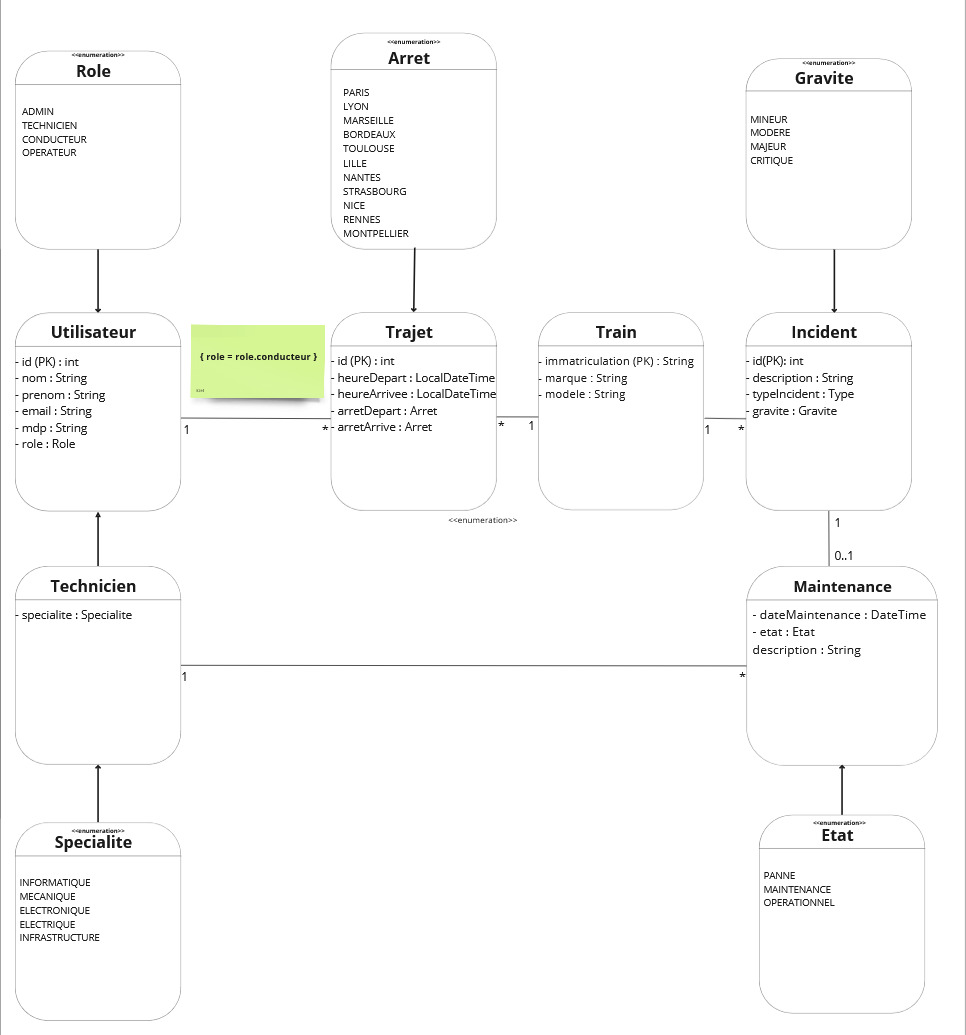
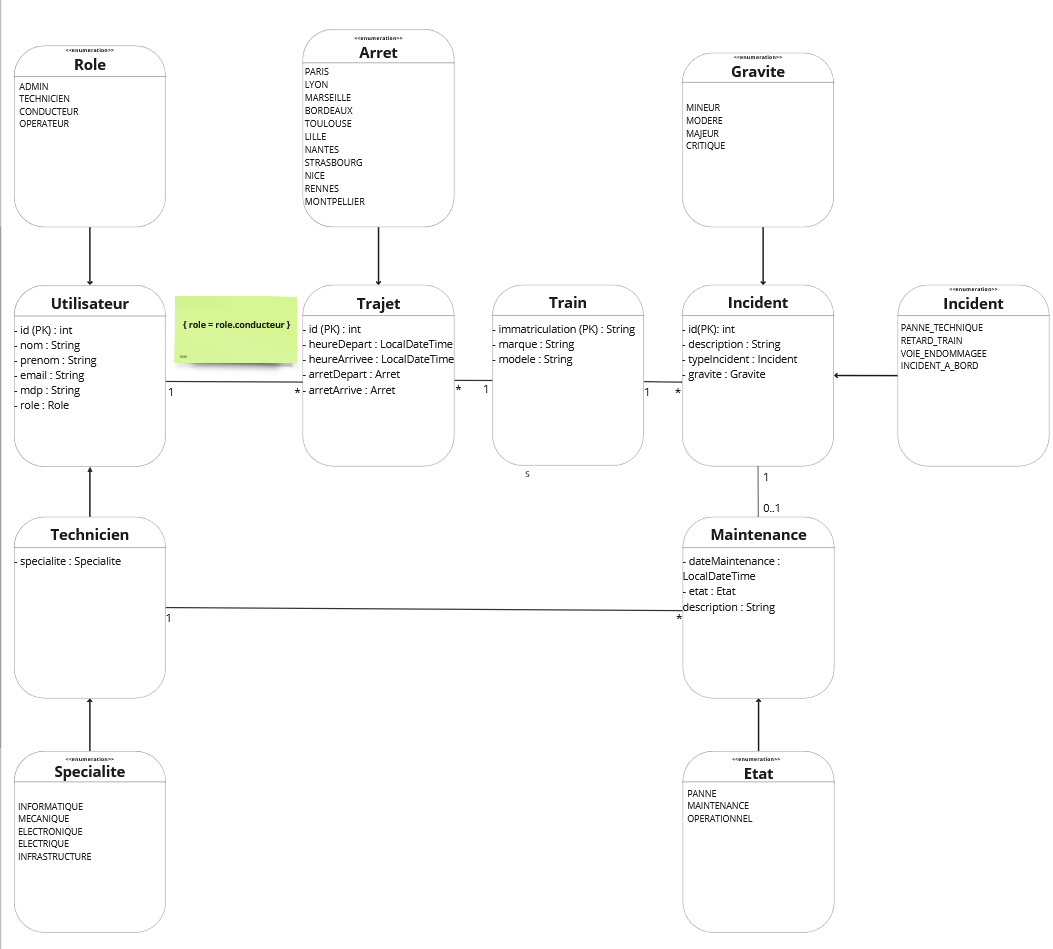
v2 modèle relationnel (ajout enum typeIncident) + modification diagramme_de_classes

diff --git a/modèle relationnel.md b/modèle relationnel.md
@@ -3,7 +3,7 @@
 
 # RailTech-Solutions
 </div>
-Itzel CASTILLO FOURNEL, Malika AMRANI, Dylan OG, ESIEE-IT (BTS - SIO), 10/12/2024
+Itzel CASTILLO FOURNEL, Malika AMRANI, Dylan OG, ESIEE-IT (BTS - SIO), 16/01/2025
 
 ## Modèle relationnel
 
@@ -11,13 +11,19 @@ Utilisateur(id: int(10), nom: varchar(50), prenom: varchar(50), email: varchar(1
 - Clé primaire : id
 - Clé étrangère : .
 
+---
+
 Technicien(id: int(10), specialite: enum('MECANIQUE', 'ELECTRONIQUE', 'ELECTRIQUE', 'INFORMATIQUE', 'INFRASTRUCTURE'))
 - Clé primaire : id
 - Clé étrangère : id référence à Utilisateur.id
 
+---
+
 Train(immatriculation: varchar(50), marque: varchar(50), modele: varchar(50))
 - Clé primaire : immatriculation
 - Clé étrangère : .
+
+---
 
 Trajet(id: int(10), heureDepart: localdatetime, heureArrivee: localdatetime, arretDepart: enum('PARIS', 'LYON', 'MARSEILLE', 'BORDEAUX', 'TOULOUSE', 'LILLE', 'NANTES', 'STRASBOURG', 'NICE', 'RENNES', 'MONTPELLIER'), arretArrivee: enum('PARIS', 'LYON', 'MARSEILLE', 'BORDEAUX', 'TOULOUSE', 'LILLE', 'NANTES', 'STRASBOURG', 'NICE', 'RENNES', 'MONTPELLIER'), trainId: int(10), conducteurId: int(10))
 - Clé primaire : id
@@ -25,9 +31,13 @@ Trajet(id: int(10), heureDepart: localdatetime, heureArrivee: localdatetime, arr
     - trainImmat référence à Train.immatriculation, 
     - conducteurId référence à Utilisateur.id
 
-Incident(id: int(10), description: varchar(255), typeIncident: Type, gravite: enum('MINEUR', 'MODERE', 'MAJEUR', 'CRITIQUE'), trainImmat: int(10))
+---
+
+Incident(id: int(10), description: varchar(255), typeIncident: enum('PANNE_TECHNIQUE', 'RETARD_TRAIN','VOIE_ENDOMMAGEE', 'INCIDENT_A_BORD'), gravite: enum('MINEUR', 'MODERE', 'MAJEUR', 'CRITIQUE'), trainImmat: int(10))
 - Clé primaire : id
 - Clé étrangère : trainImmat référence à Train.immatriculation
+
+---
 
 Maintenance(dateMaintenance: localdatetime, description: varchar(255), etat: enum('PANNE','MAINTENANCE','OPERATIONNEL'), incidentId: int(10), technicienId: int(10))
 - Clé primaire : .
